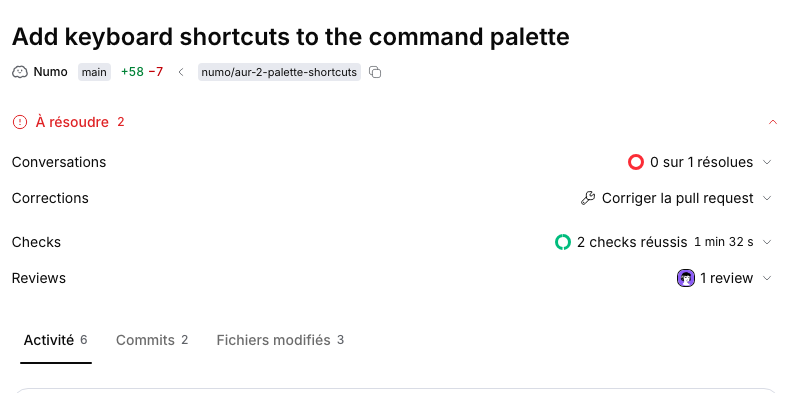
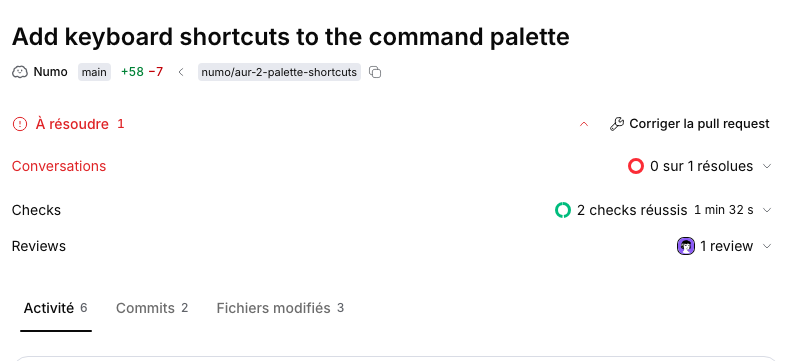
fix: place pull request corrections in the blockers header

diff --git a/components/pull-requests/pr-insights.tsx b/components/pull-requests/pr-insights.tsx
@@ -10,6 +10,9 @@ import {
   Collapsible,
   CollapsibleContent,
   CollapsibleTrigger,
+  Popover,
+  PopoverContent,
+  PopoverTrigger,
   cn,
 } from "mangue-ui";
 
@@ -187,6 +190,7 @@ export function PrInsights(props: PrInsightsProps) {
   const now = useNow({ updateInterval: 1_000 });
   const [blockersOpen, setBlockersOpen] = useState(true);
   const insights = buildInsights(t, props);
+  const fixInsight = insights.find(({ insight }) => insight.id === "fix")?.insight;
   const checksInsight = insights.find((entry) => entry.isChecks)!.insight;
   const reviews = insights.filter(({ insight }) =>
     insight.id !== "reviews" && (insight.id === "numo-review" || insight.id.startsWith("ai-review-") ||
@@ -218,7 +222,7 @@ export function PrInsights(props: PrInsightsProps) {
           ? t("approvals", { count: latest.filter((review) => review.reviewState === "approved").length })
           : count > 0 ? t("cardReviews", { count }) : t("noReviews")
   );
-  const other = insights.filter((entry) => !entry.isChecks && entry.insight.id !== "reviews" && !reviews.includes(entry));
+  const other = insights.filter((entry) => !entry.isChecks && entry.insight.id !== "fix" && entry.insight.id !== "reviews" && !reviews.includes(entry));
   const rest = [...other.filter(({ insight }) => insight.id === "conversations"), ...other.filter(({ insight }) => insight.id !== "conversations")];
 
   useEffect(() => {
@@ -232,6 +236,7 @@ export function PrInsights(props: PrInsightsProps) {
       content: (
         <PrInsightRow
           label={t("insightChecks")}
+          tone={checksInsight.tone}
           testId="pr-status-card-checks"
           detailsTestId="pr-checks-popover"
           open={props.checksOpen}
@@ -248,6 +253,7 @@ export function PrInsights(props: PrInsightsProps) {
       content: (
         <PrInsightRow
           label={t("reviewsTitle")}
+          tone={reviewTone}
           testId="pr-status-card-reviews"
           detailsTestId="pr-reviews-popover"
           summary={
@@ -280,14 +286,29 @@ export function PrInsights(props: PrInsightsProps) {
 
   return (
     <div data-testid="pr-insights" className="flex w-full min-w-0 flex-col gap-2">
-      {blocked.length > 0 ? (
+      {blocked.length > 0 || fixInsight ? (
         <Collapsible open={blockersOpen} onOpenChange={setBlockersOpen} data-testid="pr-insight-blockers">
-          <CollapsibleTrigger className="group flex w-full items-center gap-2 rounded py-1 text-left text-sm font-medium text-destructive outline-none focus-visible:ring-2 focus-visible:ring-ring">
-            <HugeiconsIcon icon={AlertCircleIcon} className="size-4 shrink-0" />
-            <span>{t("insightBlockers")}</span>
-            <span className="text-xs tabular-nums">{blocked.length}</span>
-            <HugeiconsIcon icon={ArrowDown01Icon} aria-hidden className="ml-auto size-3.5 shrink-0 transition-transform group-data-[state=open]:rotate-180" />
-          </CollapsibleTrigger>
+          <div data-testid="pr-insight-blockers-header" className="flex min-w-0 items-center gap-2">
+            <CollapsibleTrigger className="group flex min-w-0 flex-1 items-center gap-2 rounded py-1 text-left text-sm font-medium text-destructive outline-none focus-visible:ring-2 focus-visible:ring-ring">
+              <HugeiconsIcon icon={AlertCircleIcon} className="size-4 shrink-0" />
+              <span className="shrink-0">{t("insightBlockers")}</span>
+              {blocked.length > 0 ? <span className="text-xs tabular-nums">{blocked.length}</span> : null}
+              <HugeiconsIcon icon={ArrowDown01Icon} aria-hidden className="ml-auto size-3.5 shrink-0 transition-transform group-data-[state=open]:rotate-180" />
+            </CollapsibleTrigger>
+            {fixInsight ? (
+              <Popover>
+                <PopoverTrigger asChild>
+                  <Button variant="ghost" size="sm" data-testid="pr-fix-action" className="min-w-0">
+                    <HugeiconsIcon icon={Wrench01Icon} className="size-4 shrink-0" />
+                    <span className="min-w-0 truncate">{t("cardFix")}</span>
+                  </Button>
+                </PopoverTrigger>
+                <PopoverContent align="end" data-testid="pr-fix-popover" className="w-[min(26rem,calc(100vw-2rem))] p-3">
+                  <StatusDetails insight={fixInsight} now={now} />
+                </PopoverContent>
+              </Popover>
+            ) : null}
+          </div>
           <CollapsibleContent>
             <div className="flex min-w-0 flex-col pt-2">
               {blocked.map((row) => <div key={row.id}>{row.content}</div>)}
@@ -772,6 +793,7 @@ function PrInsightView({ insight, now }: { insight: PrInsight; now: Date }) {
   return (
     <PrInsightRow
       label={label}
+      tone={insight.tone}
       testId={`pr-status-card-${insight.id}`}
       summary={<StatusSummary insight={insight} now={now} />}
     >

diff --git a/lib/pr-insights.test.ts b/lib/pr-insights.test.ts
@@ -109,6 +109,10 @@ describe("pull request insight properties", () => {
     expect(group.contains(trigger("reviews"))).toBe(false);
     expect(trigger("checks").textContent).toContain("1 check failed");
     expect(trigger("checks").className).not.toMatch(/bg-destructive|text-destructive/);
+    const label = trigger("checks").closest(".min-h-9")!.firstElementChild!;
+    expect(label.classList.contains("text-destructive")).toBe(true);
+    const reviewLabel = trigger("reviews").closest(".min-h-9")!.firstElementChild!;
+    expect(reviewLabel.classList.contains("text-destructive")).toBe(false);
   });
 
   it("retains the checks row and completion circle when a suite settles", async () => {
@@ -171,12 +175,20 @@ describe("pull request insight properties", () => {
     expect(onOpen).toHaveBeenCalledOnce();
   });
 
-  it("keeps correction actions visible in a popover on click", async () => {
+  it("opens global correction actions from the header without expanding the group", async () => {
     const onCopy = vi.fn();
     const onLaunch = vi.fn();
     props.fix = { canLaunch: true, onCopy, onLaunch };
     await render();
-    await act(async () => trigger("fix").click());
+    const header = document.querySelector('[data-testid="pr-insight-blockers-header"]')!;
+    const action = header.querySelector<HTMLButtonElement>('[data-testid="pr-fix-action"]')!;
+    const toggle = header.querySelector<HTMLButtonElement>("button")!;
+    expect(trigger("fix")).toBeNull();
+    await act(async () => toggle.click());
+    expect(toggle.getAttribute("aria-expanded")).toBe("false");
+    await act(async () => action.click());
+    expect(toggle.getAttribute("aria-expanded")).toBe("false");
+    expect(document.querySelector('[data-testid="pr-fix-popover"]')).not.toBeNull();
     const copy = document.querySelector<HTMLButtonElement>('[data-testid="pr-card-fix-copy"]')!;
     const launch = document.querySelector<HTMLButtonElement>('[data-testid="pr-card-fix-launch"]')!;
     await act(async () => copy.click());

diff --git a/components/issue-property-fields.tsx b/components/issue-property-fields.tsx
@@ -4,6 +4,7 @@ import { HugeiconsIcon } from "@hugeicons/react";
 import { TriangleIcon } from "@hugeicons/core-free-icons";
 
 import { useTranslations } from "next-intl";
+import { cn } from "mangue-ui";
 import { DateTimePicker } from "@/components/date-time-picker";
 import {
   SearchSelect,
@@ -54,14 +55,16 @@ export function Dot({ color }: { color: string | null | undefined }) {
 
 export function PropertyRow({
   label,
+  labelClassName,
   children,
 }: {
   label: string;
+  labelClassName?: string;
   children: React.ReactNode;
 }) {
   return (
     <div className="flex min-h-9 items-center justify-between gap-3">
-      <span className="shrink-0 text-sm text-foreground">{label}</span>
+      <span className={cn("shrink-0 text-sm text-foreground", labelClassName)}>{label}</span>
       <div className="flex min-w-0 flex-1 items-center justify-end">{children}</div>
     </div>
   );

diff --git a/components/pull-requests/pr-insight-row.tsx b/components/pull-requests/pr-insight-row.tsx
@@ -11,6 +11,7 @@ export type PrInsightTone = "danger" | "progress" | "success" | "neutral";
 /** Match ticket property values while keeping details outside the page flow. */
 export function PrInsightRow({
   label,
+  tone,
   summary,
   children,
   testId,
@@ -19,6 +20,7 @@ export function PrInsightRow({
   onOpenChange,
 }: {
   label: string;
+  tone?: PrInsightTone;
   summary: ReactNode;
   children: ReactNode;
   testId: string;
@@ -27,7 +29,7 @@ export function PrInsightRow({
   onOpenChange?: (open: boolean) => void;
 }) {
   return (
-    <PropertyRow label={label}>
+    <PropertyRow label={label} labelClassName={tone === "danger" ? "text-destructive" : undefined}>
       <Popover open={open} onOpenChange={onOpenChange}>
         <PopoverTrigger asChild>
           <button
